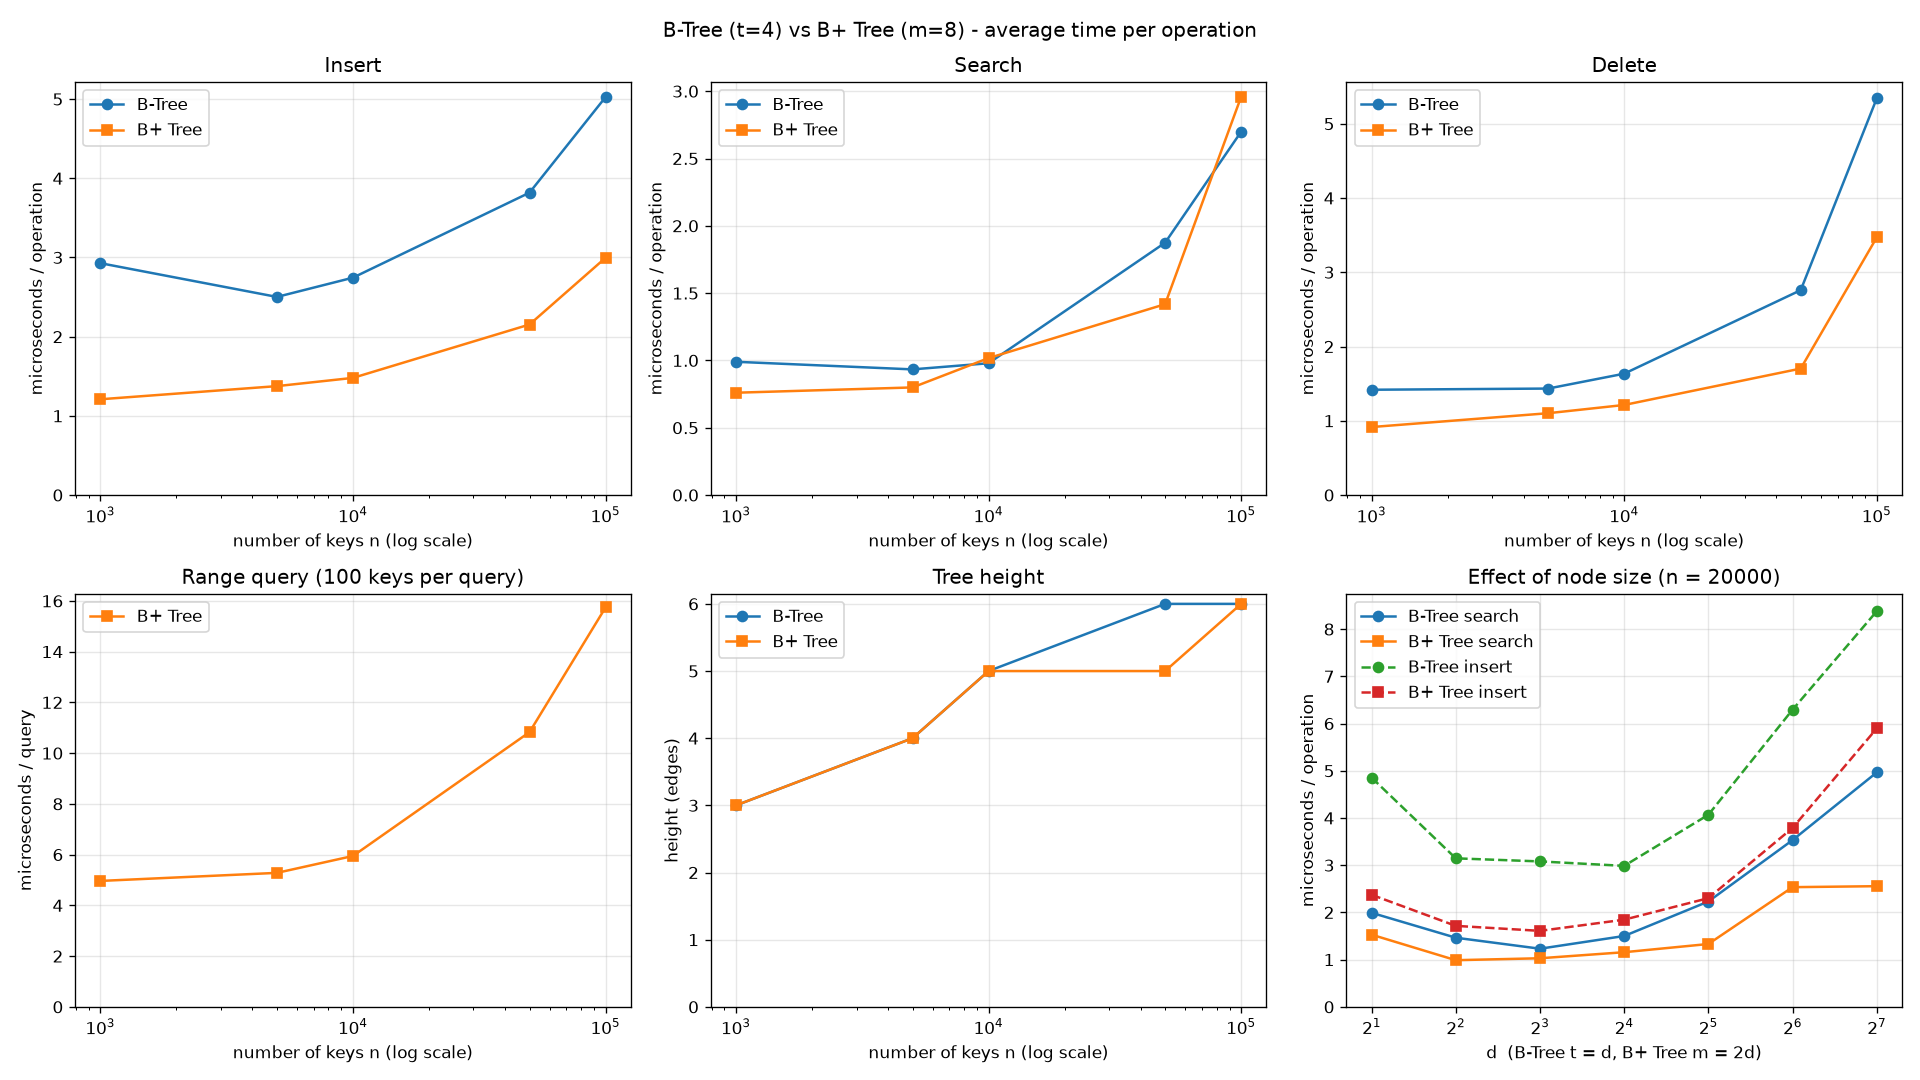
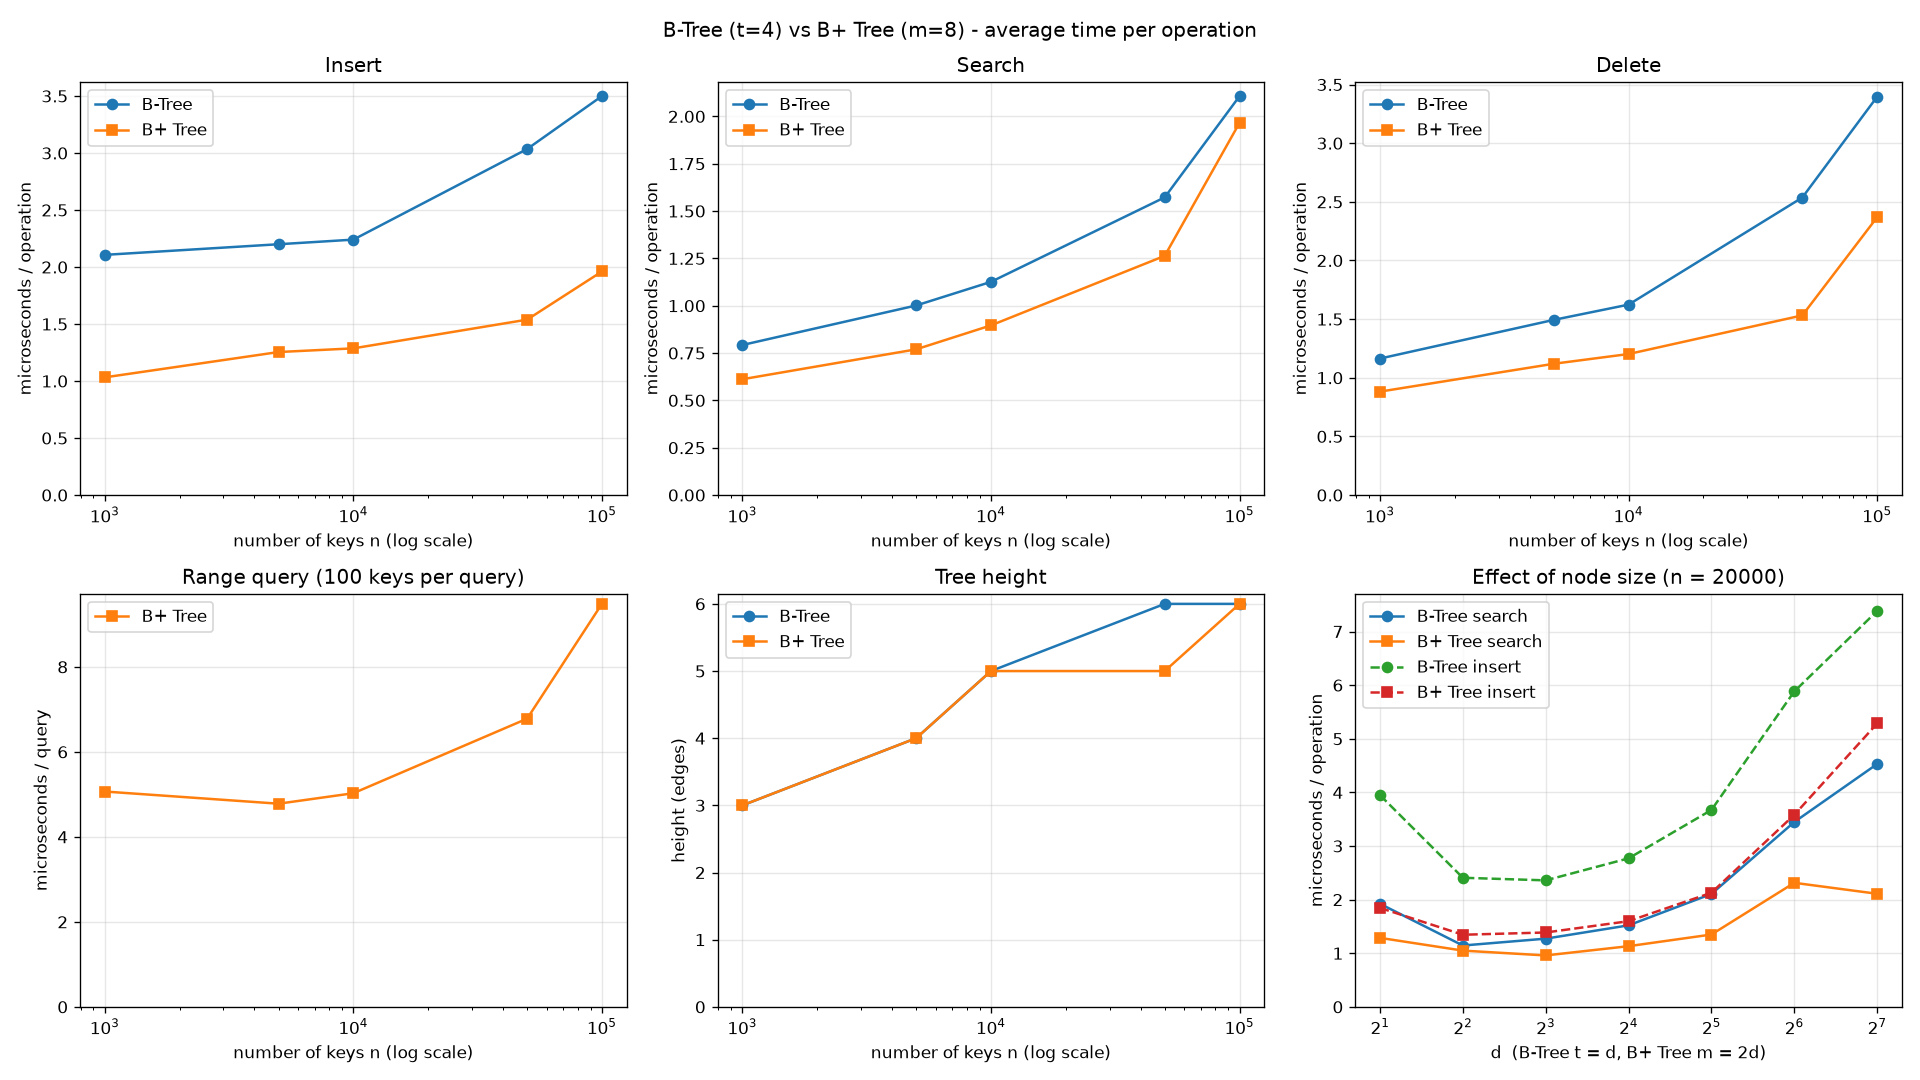
Print trees with dashes, drop conclusions and figure references from demo
- btree_lib.py: print_tree now draws the tree sideways using |-- and `--
  connectors (shared print_children helper for B-Tree and B+ Tree).
- main.py: remove the printed conclusions/observations/applications and
  the CLRS figure labels from the test output.
- Regenerate runtime_plots.png.

diff --git a/main.py b/main.py
@@ -1,11 +1,9 @@
 """
 main.py - Demonstration of btree_lib (B-Tree and B+ Tree).
 
-Part 1: Correctness tests on small trees whose results can be checked by hand
-        (the B-Tree tests reproduce CLRS Figures 18.7 and 18.8).
+Part 1: Correctness tests on small trees whose results can be checked by hand.
 Part 2: Runtime measurements for different (large) input sizes.
 Part 3: Plots of the measurements (saved to runtime_plots.png).
-Part 4: Conclusions, observations and applications.
 
 Run:  python main.py        (needs matplotlib:  pip install matplotlib)
 """
@@ -44,7 +42,7 @@ def L(*groups):
 
 
 def make_node(keys, children=None):
-    """Build a B-Tree node by hand (only used to recreate the CLRS figure)."""
+    """Build a B-Tree node by hand (used to set up a known starting tree)."""
     node = BTreeNode(leaf=(children is None))
     node.keys = list(keys)
     node.children = children if children is not None else []
@@ -82,68 +80,67 @@ def test_btree():
     tree.insert(5)
     check("inserting duplicate 5 changes nothing", tree.inorder(), list(range(1, 11)))
 
-    # ---------------- Test 2: CLRS Figure 18.7 (insertion), t = 3 ----------------
-    print("\nTest 2: CLRS Figure 18.7 - insertions with t = 3")
+    # ---------------- Test 2: insertions that cause splits, t = 3 ----------------
+    print("\nTest 2: insertions with t = 3 (letters as keys)")
     tree = BTree(t=3)
     tree.root = make_node("GMPX", [make_node("ACDE"), make_node("JK"), make_node("NO"),
                                    make_node("RSTUV"), make_node("YZ")])
-    print("  (a) initial tree:")
+    print("  Starting tree:")
     tree.print_tree()
 
     tree.insert("B")
-    print("  (b) B inserted  (goes into a leaf that is not full):")
+    print("  Insert B  (goes into a leaf that is not full):")
     tree.print_tree()
     check("insert B", tree.levels(),
           [L("GMPX"), L("ABCDE", "JK", "NO", "RSTUV", "YZ")])
 
     tree.insert("Q")
-    print("  (c) Q inserted  (leaf RSTUV is full -> split, T moves up):")
+    print("  Insert Q  (leaf RSTUV is full -> split, T moves up):")
     tree.print_tree()
     check("insert Q", tree.levels(),
           [L("GMPTX"), L("ABCDE", "JK", "NO", "QRS", "UV", "YZ")])
 
     tree.insert("L")
-    print("  (d) L inserted  (root GMPTX is full -> split, tree grows taller):")
+    print("  Insert L  (root GMPTX is full -> split, tree grows taller):")
     tree.print_tree()
     check("insert L", tree.levels(),
           [L("P"), L("GM", "TX"), L("ABCDE", "JKL", "NO", "QRS", "UV", "YZ")])
 
     tree.insert("F")
-    print("  (e) F inserted  (leaf ABCDE is full -> split, C moves up):")
+    print("  Insert F  (leaf ABCDE is full -> split, C moves up):")
     tree.print_tree()
     check("insert F", tree.levels(),
           [L("P"), L("CGM", "TX"), L("AB", "DEF", "JKL", "NO", "QRS", "UV", "YZ")])
 
-    # ---------------- Test 3: CLRS Figure 18.8 (deletion), t = 3 ----------------
-    # The tree we just built is exactly CLRS Figure 18.8(a).
-    print("\nTest 3: CLRS Figure 18.8 - deletions with t = 3 (continuing from Test 2)")
+    # ---------------- Test 3: deletions covering every delete case, t = 3 ----------------
+    print("\nTest 3: deletions with t = 3 (continuing from Test 2)")
 
     tree.delete("F")
-    print("  (b) F deleted  - case 1 (key in a leaf):")
+    print("  Delete F  - case 1 (key in a leaf):")
     tree.print_tree()
     check("delete F (case 1)", tree.levels(),
           [L("P"), L("CGM", "TX"), L("AB", "DE", "JKL", "NO", "QRS", "UV", "YZ")])
 
     tree.delete("M")
-    print("  (c) M deleted  - case 2a (replace M by predecessor L):")
+    print("  Delete M  - case 2a (replace M by predecessor L):")
     tree.print_tree()
     check("delete M (case 2a)", tree.levels(),
           [L("P"), L("CGL", "TX"), L("AB", "DE", "JK", "NO", "QRS", "UV", "YZ")])
 
     tree.delete("G")
-    print("  (d) G deleted  - case 2c (merge DE + G + JK, then delete G):")
+    print("  Delete G  - case 2c (merge DE + G + JK, then delete G):")
     tree.print_tree()
     check("delete G (case 2c)", tree.levels(),
           [L("P"), L("CL", "TX"), L("AB", "DEJK", "NO", "QRS", "UV", "YZ")])
 
     tree.delete("D")
-    print("  (e) D deleted  - case 3b (merge CL + P + TX, root shrinks, height drops):")
+    print("  Delete D  - case 3b (merge CL + P + TX, root shrinks, height drops):")
     tree.print_tree()
     check("delete D (case 3b)", tree.levels(),
           [L("CLPTX"), L("AB", "EJK", "NO", "QRS", "UV", "YZ")])
 
     tree.delete("B")
-    print("  (f) B deleted  - case 3a (borrow: C moves down, E moves up):")
+    print("  Delete B  - case 3a (borrow: C moves down, E moves up):")
     tree.print_tree()
     check("delete B (case 3a)", tree.levels(),
           [L("ELPTX"), L("AC", "JK", "NO", "QRS", "UV", "YZ")])
@@ -449,54 +446,6 @@ def make_plots(btree_results, bplus_results, degrees, degree_results):
 
 
 # =============================================================================
-#                     PART 4: Conclusions and applications
-# =============================================================================
-
-def print_conclusions(btree_results, bplus_results):
-    heading("PART 4: CONCLUSIONS, OBSERVATIONS AND APPLICATIONS")
-    growth = SIZES[-1] // SIZES[0]
-    b_search = btree_results[-1]["search"] / btree_results[0]["search"]
-    p_search = bplus_results[-1]["search"] / bplus_results[0]["search"]
-    print(f"""
-Observations (from the measurements above)
-  * n grew {growth}x (from {SIZES[0]} to {SIZES[-1]} keys), but the search time grew only
-    {b_search:.1f}x for the B-Tree and {p_search:.1f}x for the B+ Tree. The height went from
-    {btree_results[0]['height']} to {btree_results[-1]['height']} (B-Tree) and from \
-{bplus_results[0]['height']} to {bplus_results[-1]['height']} (B+ Tree).
-    This matches the theory: search / insert / delete are O(t log_t n), and the
-    height is at most log_t((n+1)/2), so the cost grows only logarithmically.
-  * The times rise a bit faster between 50000 and 100000 keys. The height barely
-    changes there; the reason is the CPU cache: a large tree no longer fits in the
-    fast cache memory, so following a child pointer often has to wait for slower RAM.
-  * The range query only depends on the height (to find the first leaf) plus the
-    number of keys returned, because the B+ Tree walks the linked list of leaves.
-    A plain B-Tree would have to go up and down the tree to do the same thing.
-  * Bigger nodes -> smaller height. In Python, looking inside a node is a linear scan,
-    so very large nodes eventually stop helping. On a disk, one node = one disk
-    block, and reading a block is so slow that the height (number of disk reads) is
-    what matters most - that is why real systems use nodes with hundreds of keys.
-  * B-Tree vs B+ Tree: a B-Tree search can stop early at an internal node; a B+ Tree
-    search always goes to a leaf, but its internal nodes hold only keys, so more of
-    them fit in a block, and all data is together in the leaves.
-  * Inserting keys in increasing order leaves B+ Tree leaves only half full
-    (see B+ Tree Test 1), because every split leaves the left half behind.
-
-Conclusions
-  * Both trees stay perfectly balanced (all leaves at the same depth) after every
-    insert and delete, so the worst case is always O(log n).
-  * The B-Tree is the simpler "balanced search tree for blocks of data"; the B+ Tree
-    adds a linked leaf level, which makes ordered scans and range queries fast.
-
-Applications
-  * Database indexes: MySQL InnoDB, PostgreSQL, SQLite and Oracle use B+ Trees
-    for their indexes (fast lookups AND fast "WHERE x BETWEEN a AND b").
-  * File systems: NTFS, ext4 (directory index), HFS+, Btrfs and XFS use B-Trees /
-    B+ Trees to find files and disk blocks.
-  * Key-value stores and search engines that must keep data sorted on disk.
-""")
-
-
-# =============================================================================
 
 def main():
     random.seed(42)          # fixed seed so every run gives the same random tests
@@ -506,7 +455,6 @@ def main():
 
     btree_results, bplus_results, degrees, degree_results = run_benchmarks()
     make_plots(btree_results, bplus_results, degrees, degree_results)
-    print_conclusions(btree_results, bplus_results)
 
 
 if __name__ == "__main__":

diff --git a/btree_lib.py b/btree_lib.py
@@ -25,6 +25,33 @@ Keys can be anything that can be compared with < and == (ints, strings, ...).
 
 
 # =============================================================================
+#                 Printing helpers (shared by both trees)
+# =============================================================================
+
+def node_text(node):
+    """A node's keys as text, e.g. [3 5 7]"""
+    return "[" + " ".join(str(k) for k in node.keys) + "]"
+
+
+def print_children(node, indent):
+    """
+    Print every child of `node` on its own line, then (recursively) its children.
+      * "|-- " is drawn in front of a child that has more siblings below it,
+      * "`-- " is drawn in front of the last child.
+    `indent` is the text drawn in front of this level: under a child that has
+    more siblings we continue the line with "|   ", otherwise just spaces.
+    """
+    for i, child in enumerate(node.children):
+        is_last = (i == len(node.children) - 1)
+        if is_last:
+            print(indent + "`-- " + node_text(child))
+            print_children(child, indent + "    ")
+        else:
+            print(indent + "|-- " + node_text(child))
+            print_children(child, indent + "|   ")
+
+
+# =============================================================================
 #                                   B-TREE
 # =============================================================================
 
@@ -282,10 +309,18 @@ class BTree:
         return result
 
     def print_tree(self):
-        """Print the tree one level per line, e.g.  Level 1: [5 10] [30 40]"""
-        for depth, level in enumerate(self.levels()):
-            nodes = " ".join("[" + " ".join(str(k) for k in keys) + "]" for keys in level)
-            print(f"    Level {depth}: {nodes}")
+        """
+        Print the tree sideways, one node per line, e.g.
+            [4]
+            |-- [2]
+            |   |-- [1]
+            |   `-- [3]
+            `-- [6 8]
+                |-- [5]
+                ...
+        """
+        print(node_text(self.root))
+        print_children(self.root, "")
 
     def height(self):
         """Number of edges from the root to a leaf (a single node has height 0)."""
@@ -552,13 +587,9 @@ class BPlusTree:
         return result
 
     def print_tree(self):
-        """Print the tree one level per line. Leaves are joined with '->' (the leaf chain)."""
-        all_levels = self.levels()
-        for depth, level in enumerate(all_levels):
-            is_leaf_level = (depth == len(all_levels) - 1)
-            joiner = " -> " if is_leaf_level else " "
-            nodes = joiner.join("[" + " ".join(str(k) for k in keys) + "]" for keys in level)
-            print(f"    Level {depth}: {nodes}")
+        """Print the tree sideways, one node per line (same format as BTree.print_tree)."""
+        print(node_text(self.root))
+        print_children(self.root, "")
 
     def height(self):
         """Number of edges from the root to a leaf (a single node has height 0)."""
